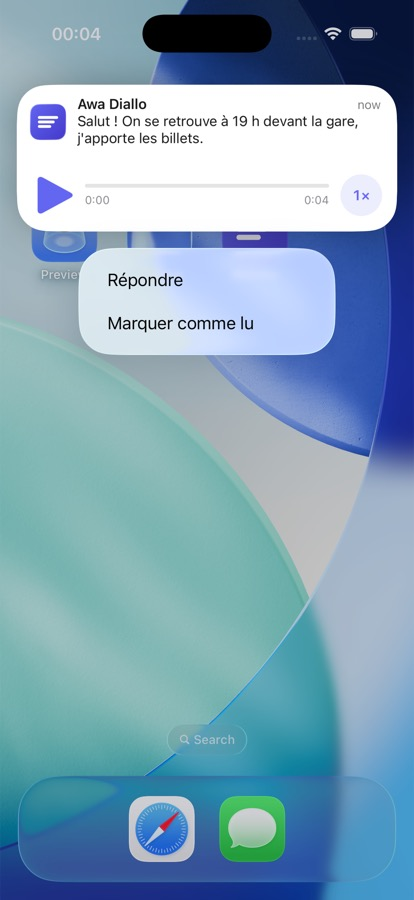
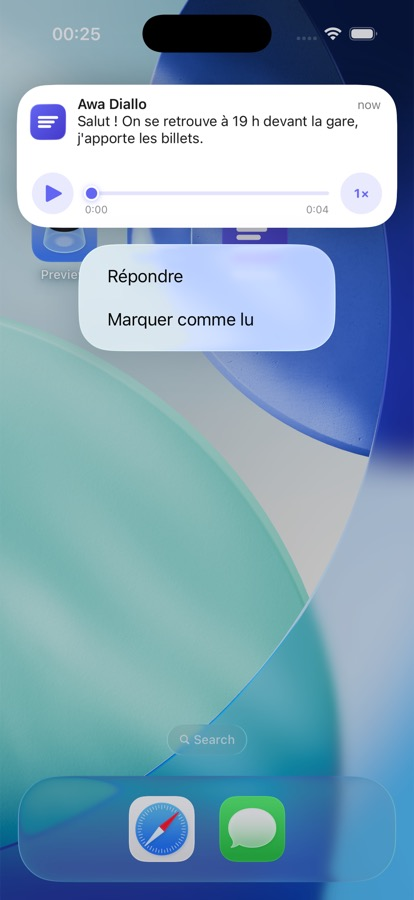
fix(ios/notifications): le lecteur de la notification déployée tient sur un seul axe (#8859)
Consigne porteur : pastille de lecture et pastille de vitesse au même gabarit
et à la même teinte d'accent, sur le même axe que la ligne de progression ;
ligne plus épaisse avec bouton, partie jouée à l'accent, temps en petit sous
la ligne alignés à ses bords.

- NotificationPlayerGeometry : l'axe et le cadre du bouton natif sont calculés
  au même endroit (témoins).
- Glyphe natif fin, cible entière : toute la pastille (44 pt) joue et met en
  pause, le système en est informé (mediaPlayingStarted/Paused).
- Toucher ou glisser la ligne déplace la lecture (seekFraction, témoin).
- Relire un vocal écouté repart du début : état « fin atteinte » explicite au
  lieu de currentTime >= duration, qui laissait la relecture bloquée à 0:04.
- Captures du vocal refaites (déployé, en lecture 1,5x, terminé, déplacement,
  gros plan).

diff --git a/apps/ios/MeeshyNotificationContentExtension/NotificationExpandedViews.swift b/apps/ios/MeeshyNotificationContentExtension/NotificationExpandedViews.swift
@@ -2,25 +2,20 @@ import MapKit
 import MeeshySDK
 import SwiftUI
 
-/// Les mesures partagées par la vue et le contrôleur : le bouton natif de
-/// lecture est posé par le SYSTÈME à `NotificationExpandedLayout.playButtonFrame`,
-/// et la vue lui réserve exactement cette place.
+/// Les mesures partagées par la vue et le contrôleur. Le lecteur suit
+/// `NotificationPlayerGeometry` : le bouton natif est posé par le SYSTÈME au
+/// cadre qu'elle calcule, et la vue dessine sa pastille autour.
 enum NotificationExpandedLayout {
-    static let inset: CGFloat = 16
-    static let playButtonSide: CGFloat = 44
-    static let audioHeight: CGFloat = 76
+    static let player = NotificationPlayerGeometry.standard
+    static let inset: CGFloat = player.inset
     static let locationMapHeight: CGFloat = 190
     static let locationHeight: CGFloat = 262
     static let contactHeight: CGFloat = 132
     static let accent = Color(red: 0x63 / 255, green: 0x66 / 255, blue: 0xF1 / 255)
 
-    static var playButtonFrame: CGRect {
-        CGRect(x: inset, y: (audioHeight - playButtonSide) / 2, width: playButtonSide, height: playButtonSide)
-    }
-
     static func height(for content: NotificationExpandedContent) -> CGFloat {
         switch content {
-        case .audio: return audioHeight
+        case .audio: return player.height
         case .location: return locationHeight
         case .contact: return contactHeight
         }
@@ -33,12 +28,13 @@ enum NotificationExpandedLayout {
 struct NotificationExpandedRoot: View {
     let content: NotificationExpandedContent
     let player: NotificationAudioPlayer?
+    let togglePlayback: () -> Void
     let openInMaps: (URL) -> Void
 
     var body: some View {
         switch content {
         case .audio:
-            if let player { NotificationAudioCard(player: player) }
+            if let player { NotificationAudioCard(player: player, togglePlayback: togglePlayback) }
         case .location(let place):
             NotificationLocationCard(place: place) {
                 if let url = place.mapsURL { openInMaps(url) }
@@ -51,45 +47,112 @@ struct NotificationExpandedRoot: View {
 
 // MARK: - Vocal
 
+/// Une rangée, un axe : pastille de lecture · ligne de progression · pastille
+/// de vitesse, toutes centrées sur `axisY`. Les deux pastilles ont le même
+/// gabarit et la même teinte d'accent, comme la puce de vitesse des bulles
+/// audio (`AudioPlayerView`).
 struct NotificationAudioCard: View {
     @ObservedObject var player: NotificationAudioPlayer
+    let togglePlayback: () -> Void
+    private let geometry = NotificationExpandedLayout.player
+    private let accent = NotificationExpandedLayout.accent
 
     var body: some View {
         HStack(spacing: 12) {
-            // La place du bouton NATIF (`mediaPlayPauseButtonType`), que le
-            // système dessine par-dessus cette vue.
-            Color.clear
-                .frame(width: NotificationExpandedLayout.playButtonSide, height: NotificationExpandedLayout.playButtonSide)
+            // La pastille du bouton NATIF (`mediaPlayPauseButtonType`) : le
+            // système dessine son glyphe au centre, à `nativeButtonFrame`. Le
+            // glyphe est fin, la cible ne l'est pas : toute la pastille (44 pt)
+            // joue et met en pause, et le contrôleur en informe le système.
+            Button(action: togglePlayback) { pill }
+                .buttonStyle(.plain)
                 .accessibilityHidden(true)
 
-            VStack(alignment: .leading, spacing: 6) {
-                ProgressView(value: NotificationPlaybackRate.progress(elapsed: player.elapsed, duration: player.duration))
-                    .tint(NotificationExpandedLayout.accent)
-                    .accessibilityLabel(Text(String(localized: "notification.expanded.progress", defaultValue: "Playback progress")))
-                    .accessibilityValue(Text(NotificationPlaybackRate.clock(seconds: player.elapsed)))
-                HStack {
-                    Text(NotificationPlaybackRate.clock(seconds: player.elapsed))
-                    Spacer()
-                    Text(NotificationPlaybackRate.clock(seconds: player.duration))
-                }
-                .font(.caption.monospacedDigit())
-                .foregroundStyle(.secondary)
-                .accessibilityHidden(true)
-            }
+            NotificationProgressTrack(
+                progress: NotificationPlaybackRate.progress(elapsed: player.elapsed, duration: player.duration),
+                elapsed: NotificationPlaybackRate.clock(seconds: player.elapsed),
+                total: NotificationPlaybackRate.clock(seconds: player.duration),
+                height: geometry.pillSide,
+                accent: accent,
+                seek: player.seek(toFraction:)
+            )
 
             Button(action: player.cycleRate) {
                 Text(NotificationPlaybackRate.label(for: player.rate))
-                    .font(.subheadline.weight(.semibold).monospacedDigit())
-                    .foregroundStyle(NotificationExpandedLayout.accent)
-                    .frame(minWidth: 44, minHeight: 44)
-                    .background(NotificationExpandedLayout.accent.opacity(0.12), in: Capsule())
+                    .font(.footnote.weight(.bold).monospacedDigit())
+                    .foregroundStyle(accent)
+                    .minimumScaleFactor(0.7)
+                    .lineLimit(1)
+                    .frame(width: geometry.pillSide, height: geometry.pillSide)
+                    .background(pill)
             }
             .buttonStyle(.plain)
             .accessibilityLabel(Text(String(localized: "notification.expanded.playbackRate", defaultValue: "Playback speed")))
             .accessibilityValue(Text(NotificationPlaybackRate.label(for: player.rate)))
         }
-        .padding(.horizontal, NotificationExpandedLayout.inset)
-        .frame(height: NotificationExpandedLayout.audioHeight)
+        .padding(.horizontal, geometry.inset)
+        .frame(height: geometry.height)
+    }
+
+    private var pill: some View {
+        Circle()
+            .fill(accent.opacity(0.14))
+            .frame(width: geometry.pillSide, height: geometry.pillSide)
+    }
+}
+
+/// La ligne de progression, centrée sur l'axe de la rangée : partie jouée et
+/// bouton à l'accent, temps en petit SOUS la ligne, alignés à ses bords. On
+/// glisse le bouton (ou on touche la ligne) pour se déplacer dans le vocal.
+struct NotificationProgressTrack: View {
+    let progress: Double
+    let elapsed: String
+    let total: String
+    let height: CGFloat
+    let accent: Color
+    let seek: (Double) -> Void
+
+    private let lineHeight: CGFloat = 4
+    private let knobSide: CGFloat = 14
+
+    var body: some View {
+        GeometryReader { proxy in
+            let width = proxy.size.width
+            let played = width * progress
+            ZStack(alignment: .leading) {
+                Capsule().fill(accent.opacity(0.18)).frame(height: lineHeight)
+                Capsule().fill(accent).frame(width: max(lineHeight, played), height: lineHeight)
+                Circle()
+                    .fill(accent)
+                    .overlay(Circle().stroke(Color.white, lineWidth: 2))
+                    .frame(width: knobSide, height: knobSide)
+                    .shadow(color: accent.opacity(0.35), radius: 3, y: 1)
+                    .offset(x: min(max(0, played - knobSide / 2), width - knobSide))
+            }
+            .frame(width: width, height: height)
+            .contentShape(Rectangle())
+            .gesture(DragGesture(minimumDistance: 0).onChanged { value in
+                seek(NotificationPlayerGeometry.seekFraction(x: value.location.x, trackWidth: width))
+            })
+            .overlay(alignment: .bottom) {
+                HStack {
+                    Text(elapsed)
+                    Spacer()
+                    Text(total)
+                }
+                .font(.caption2.monospacedDigit())
+                .foregroundStyle(.secondary)
+                .offset(y: 2)
+                .accessibilityHidden(true)
+            }
+        }
+        .frame(height: height)
+        .accessibilityElement()
+        .accessibilityLabel(Text(String(localized: "notification.expanded.progress", defaultValue: "Playback progress")))
+        .accessibilityValue(Text(verbatim: "\(elapsed) / \(total)"))
+        .accessibilityAdjustableAction { direction in
+            let step = direction == .increment ? 0.1 : -0.1
+            seek(min(1, max(0, progress + step)))
+        }
     }
 }
 

diff --git a/apps/ios/MeeshyNotificationContentExtension/NotificationAudioPlayer.swift b/apps/ios/MeeshyNotificationContentExtension/NotificationAudioPlayer.swift
@@ -14,6 +14,7 @@ protocol NotificationAudioPlayerProviding: AnyObject {
     func play()
     func pause()
     func cycleRate()
+    func seek(toFraction fraction: Double)
     func stop()
 }
 
@@ -39,6 +40,7 @@ final class NotificationAudioPlayer: ObservableObject, NotificationAudioPlayerPr
     private let scopedURL: URL?
     private var timeObserver: Any?
     private var endObserver: NSObjectProtocol?
+    private var reachedEnd = false
 
     init(url: URL, declaredDurationMs: Int?) {
         scopedURL = url.isFileURL && url.startAccessingSecurityScopedResource() ? url : nil
@@ -51,7 +53,12 @@ final class NotificationAudioPlayer: ObservableObject, NotificationAudioPlayerPr
         logger.info("play at \(self.elapsed, privacy: .public)")
         try? AVAudioSession.sharedInstance().setCategory(.playback, mode: .spokenAudio)
         try? AVAudioSession.sharedInstance().setActive(true)
-        if let item = player.currentItem, item.currentTime() >= item.duration, item.duration.isNumeric {
+        // Rejouer un vocal ÉCOUTÉ repart du début. L'état est tenu ici plutôt
+        // que déduit de `currentTime() >= duration`, qui ne tombe pas juste à
+        // la fin d'un flux (mesuré : la relecture restait bloquée à 0:04).
+        if reachedEnd {
+            reachedEnd = false
+            elapsed = 0
             player.seek(to: .zero)
         }
         player.playImmediately(atRate: rate)
@@ -67,6 +74,15 @@ final class NotificationAudioPlayer: ObservableObject, NotificationAudioPlayerPr
     func cycleRate() {
         rate = NotificationPlaybackRate.next(after: rate)
         if isPlaying { player.rate = rate }
+    }
+
+    /// Le bouton de la ligne de progression : on glisse, la lecture suit.
+    func seek(toFraction fraction: Double) {
+        guard duration > 0 else { return }
+        let target = duration * min(1, max(0, fraction))
+        reachedEnd = false
+        elapsed = target
+        player.seek(to: CMTime(seconds: target, preferredTimescale: 600), toleranceBefore: .zero, toleranceAfter: .zero)
     }
 
     func stop() {
@@ -101,6 +117,7 @@ final class NotificationAudioPlayer: ObservableObject, NotificationAudioPlayerPr
 
     private func finish() {
         logger.info("finished")
+        reachedEnd = true
         isPlaying = false
         elapsed = duration
         onFinish?()

diff --git a/apps/ios/MeeshyNotificationContentExtension/NotificationExpandedContent.swift b/apps/ios/MeeshyNotificationContentExtension/NotificationExpandedContent.swift
@@ -1,3 +1,4 @@
+import CoreGraphics
 import Foundation
 import UniformTypeIdentifiers
 import MeeshySDK
@@ -71,6 +72,34 @@ nonisolated enum NotificationExpandedContent: Equatable, Sendable {
 nonisolated struct NotificationAudioDetail: Equatable, Sendable {
     let remoteURL: URL
     let durationMs: Int?
+}
+
+/// **La géométrie du lecteur** : une rangée, un axe. La pastille de lecture, la
+/// ligne de progression et la pastille de vitesse sont centrées sur le MÊME axe
+/// horizontal ; les deux pastilles ont le même gabarit. Le bouton natif
+/// (`mediaPlayPauseButtonType`) est dessiné par le système au cadre qu'on lui
+/// donne : ce cadre est calculé ici, au centre de la pastille, pour que la vue
+/// et le système ne puissent pas se désaligner.
+nonisolated struct NotificationPlayerGeometry: Equatable, Sendable {
+    let height: CGFloat
+    let inset: CGFloat
+    let pillSide: CGFloat
+    let glyphSide: CGFloat
+
+    static let standard = NotificationPlayerGeometry(height: 72, inset: 16, pillSide: 44, glyphSide: 20)
+
+    var axisY: CGFloat { height / 2 }
+
+    var nativeButtonFrame: CGRect {
+        let centerX = inset + pillSide / 2
+        return CGRect(x: centerX - glyphSide / 2, y: axisY - glyphSide / 2, width: glyphSide, height: glyphSide)
+    }
+
+    /// La part de la piste sous le doigt, bornée à [0, 1].
+    static func seekFraction(x: CGFloat, trackWidth: CGFloat) -> Double {
+        guard trackWidth > 0 else { return 0 }
+        return Double(min(1, max(0, x / trackWidth)))
+    }
 }
 
 /// Les petites lois du lecteur : vitesse, horloge, progression.

diff --git a/apps/ios/MeeshyTests/Unit/Services/NotificationExpandedContentTests.swift b/apps/ios/MeeshyTests/Unit/Services/NotificationExpandedContentTests.swift
@@ -152,6 +152,28 @@ final class NotificationExpandedContentTests: XCTestCase {
         XCTAssertEqual(NotificationPlaybackRate.progress(elapsed: 3, duration: .nan), 0)
     }
 
+    // MARK: - Lecteur : un seul axe
+
+    /// Le bouton natif est dessiné par le SYSTÈME à `nativeButtonFrame` : il
+    /// doit tomber au centre de la pastille de lecture, sur l'axe de la ligne
+    /// de progression, et au même gabarit que la pastille de vitesse.
+    func test_nativeButtonFrame_isCentredInThePlayPill_onTheRowAxis() {
+        let geometry = NotificationPlayerGeometry.standard
+        let frame = geometry.nativeButtonFrame
+        XCTAssertEqual(frame.midY, geometry.axisY, accuracy: 0.001)
+        XCTAssertEqual(frame.midX, geometry.inset + geometry.pillSide / 2, accuracy: 0.001)
+        XCTAssertEqual(geometry.axisY, geometry.height / 2, accuracy: 0.001)
+        XCTAssertLessThan(frame.width, geometry.pillSide)
+        XCTAssertGreaterThanOrEqual(geometry.pillSide, 44)
+    }
+
+    func test_seekFraction_followsTheFinger_andStaysOnTheTrack() {
+        XCTAssertEqual(NotificationPlayerGeometry.seekFraction(x: 50, trackWidth: 200), 0.25, accuracy: 0.0001)
+        XCTAssertEqual(NotificationPlayerGeometry.seekFraction(x: -20, trackWidth: 200), 0)
+        XCTAssertEqual(NotificationPlayerGeometry.seekFraction(x: 260, trackWidth: 200), 1)
+        XCTAssertEqual(NotificationPlayerGeometry.seekFraction(x: 10, trackWidth: 0), 0)
+    }
+
     // MARK: - Catégorie : ce qui fait choisir l'extension
 
     func test_refinedCategory_voiceMessage_isTheAudioCategory() {

diff --git a/apps/ios/MeeshyNotificationContentExtension/NotificationViewController.swift b/apps/ios/MeeshyNotificationContentExtension/NotificationViewController.swift
@@ -55,7 +55,7 @@ final class NotificationViewController: UIViewController, UNNotificationContentE
         return .default
     }
 
-    var mediaPlayPauseButtonFrame: CGRect { NotificationExpandedLayout.playButtonFrame }
+    var mediaPlayPauseButtonFrame: CGRect { NotificationExpandedLayout.player.nativeButtonFrame }
 
     var mediaPlayPauseButtonTintColor: UIColor { UIColor(NotificationExpandedLayout.accent) }
 
@@ -79,8 +79,24 @@ final class NotificationViewController: UIViewController, UNNotificationContentE
             player.onFinish = { [weak self] in self?.extensionContext?.mediaPlayingPaused() }
             self.player = player
         }
-        return NotificationExpandedRoot(content: content, player: player) { [weak self] url in
-            self?.extensionContext?.open(url, completionHandler: nil)
+        return NotificationExpandedRoot(
+            content: content,
+            player: player,
+            togglePlayback: { [weak self] in self?.togglePlayback() },
+            openInMaps: { [weak self] url in self?.extensionContext?.open(url, completionHandler: nil) }
+        )
+    }
+
+    /// La pastille entière joue ou met en pause ; le système en est informé
+    /// pour que son bouton natif affiche le bon glyphe.
+    private func togglePlayback() {
+        guard let player else { return }
+        if player.isPlaying {
+            player.pause()
+            extensionContext?.mediaPlayingPaused()
+        } else {
+            player.play()
+            extensionContext?.mediaPlayingStarted()
         }
     }
 
